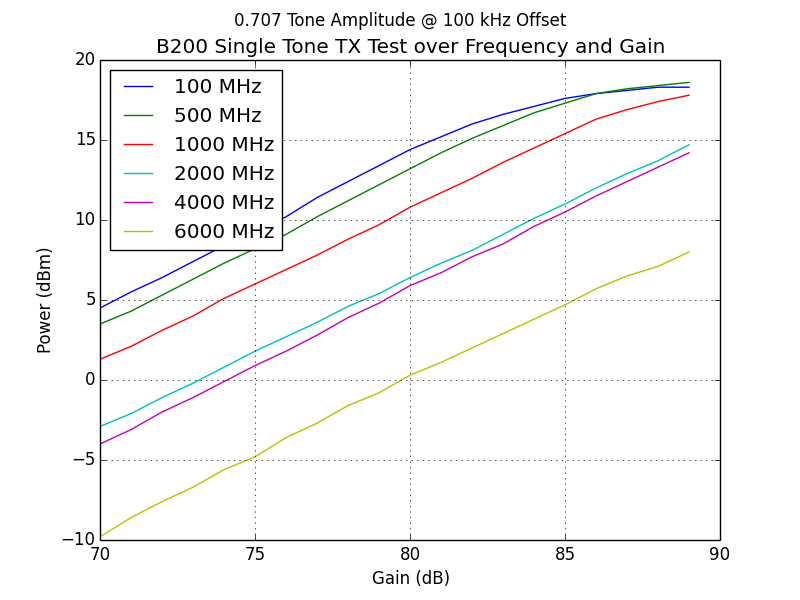
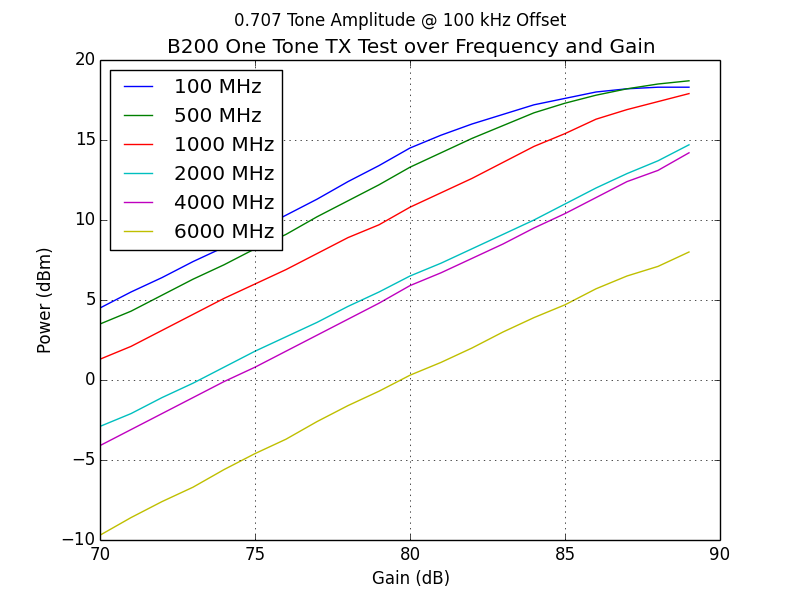
updated one tone test

diff --git a/apps/usrp_one_tone_tx_test.py b/apps/usrp_one_tone_tx_test.py
@@ -120,7 +120,7 @@ def main():
     plt.xlabel('Gain (dB)')
     plt.ylabel('Power (dBm)')
     plt.grid()
-    plt.title("B200 Single Tone TX Test over Frequency and Gain")
+    plt.title("B200 One Tone TX Test over Frequency and Gain")
     plt.suptitle("%1.3f Tone Amplitude @ %i kHz Offset" % \
         (tb.sig_amp, tb.sig0_freq/1E3))
     plt.savefig('usrp_one_tone_tx_power_graph.png')
